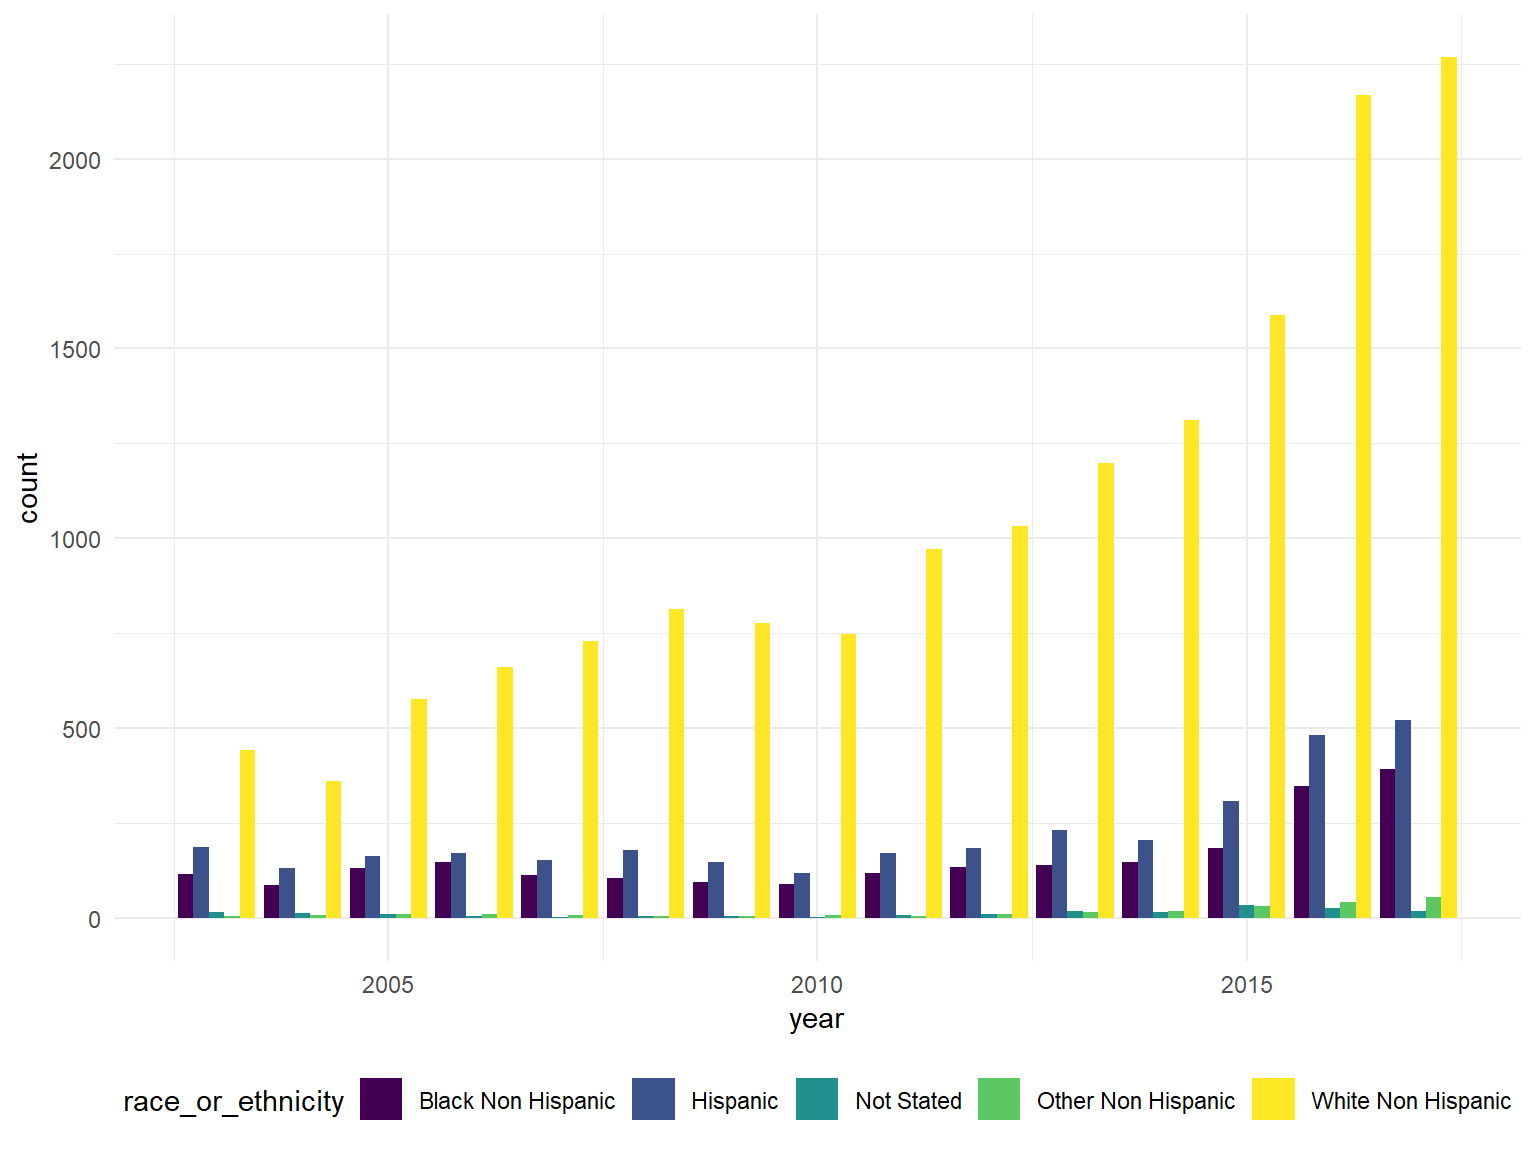
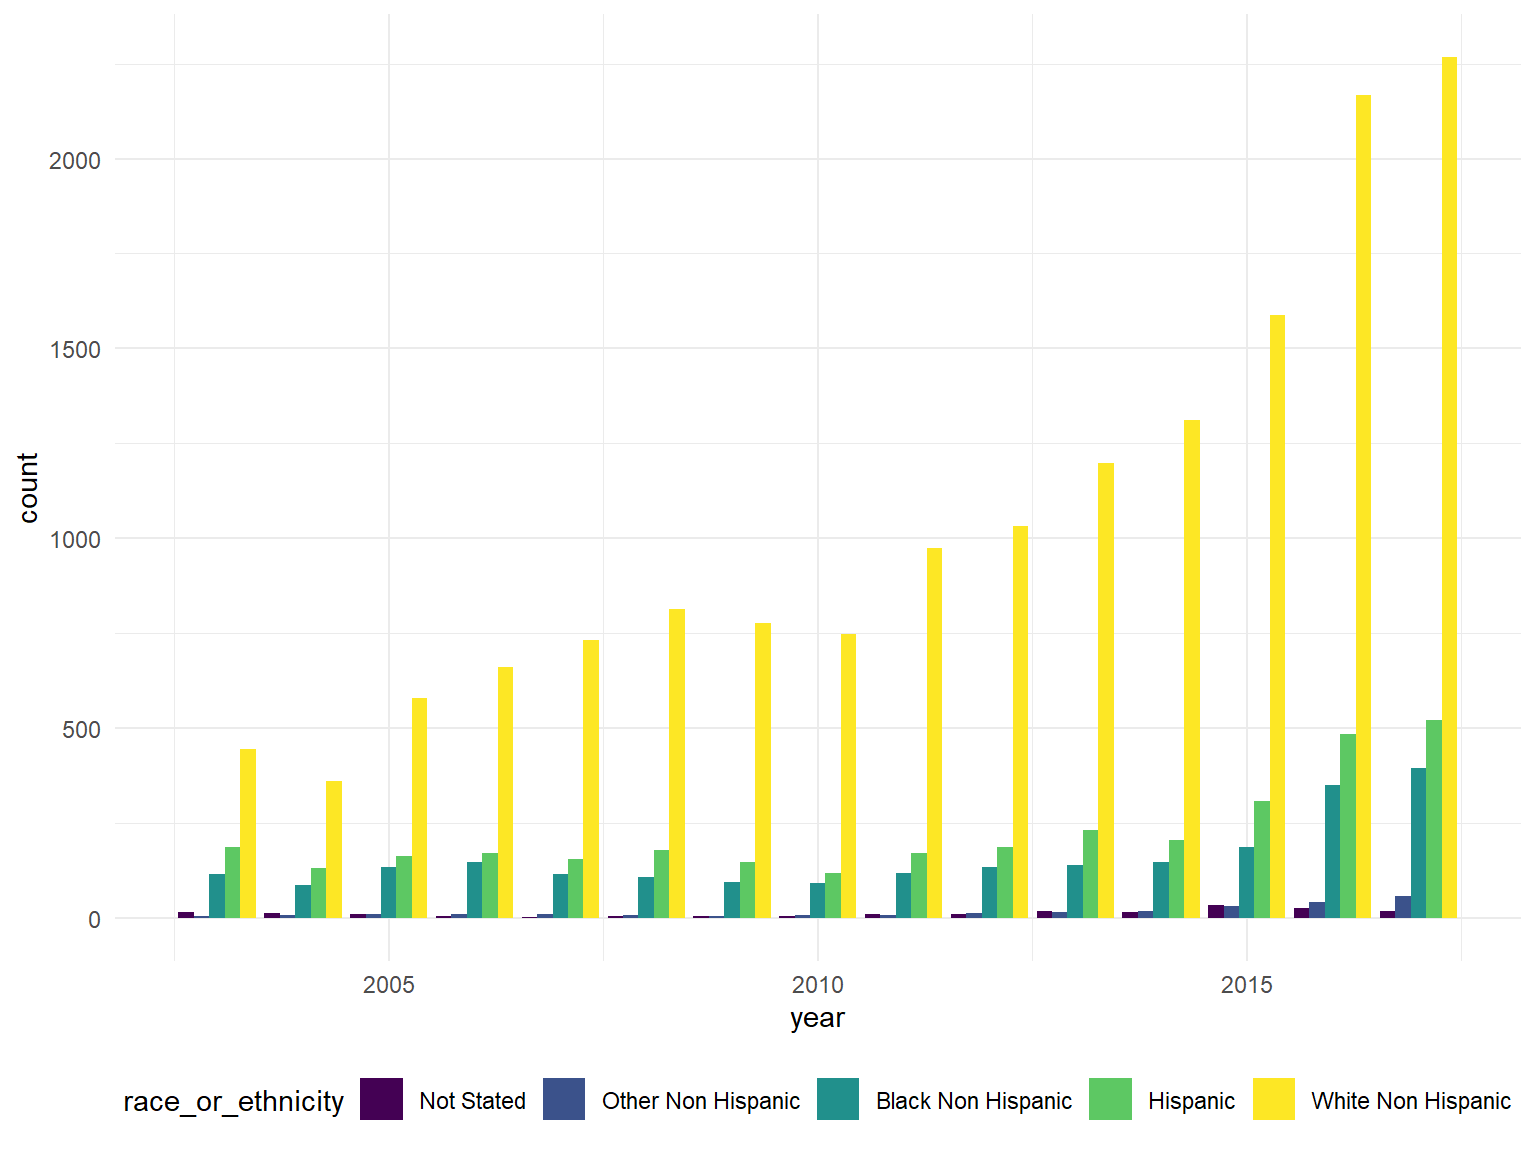
saving conflicted file

diff --git a/final_proj_jbt.html b/final_proj_jbt.html
@@ -25,6 +25,13 @@
 <script src="site_libs/navigation-1.1/tabsets.js"></script>
 <link href="site_libs/highlightjs-9.12.0/default.css" rel="stylesheet" />
 <script src="site_libs/highlightjs-9.12.0/highlight.js"></script>
+<script src="site_libs/htmlwidgets-1.3/htmlwidgets.js"></script>
+<script src="site_libs/plotly-binding-4.9.0/plotly.js"></script>
+<script src="site_libs/typedarray-0.1/typedarray.min.js"></script>
+<link href="site_libs/crosstalk-1.0.0/css/crosstalk.css" rel="stylesheet" />
+<script src="site_libs/crosstalk-1.0.0/js/crosstalk.min.js"></script>
+<link href="site_libs/plotly-htmlwidgets-css-1.46.1/plotly-htmlwidgets.css" rel="stylesheet" />
+<script src="site_libs/plotly-main-1.46.1/plotly-latest.min.js"></script>
 <link href="site_libs/font-awesome-5.1.0/css/all.css" rel="stylesheet" />
 <link href="site_libs/font-awesome-5.1.0/css/v4-shims.css" rel="stylesheet" />
 
@@ -309,178 +316,21 @@ $(document).ready(function () {
 <div id="er-visits-by-county-distance-to-treatment-facility" class="section level2">
 <h2>ER visits by county &amp; distance to treatment facility</h2>
 <p>Is there any relationship between number of ER visits and distance to treatment facility?</p>
-<pre class="r"><code>opioid_death_data = janitor::clean_names(read_csv(&#39;./opioid_related_deaths.csv&#39;))</code></pre>
-<pre><code>## Parsed with column specification:
-## cols(
-##   Year = col_double(),
-##   County = col_character(),
-##   `Opioid Poisoning Deaths` = col_double()
-## )</code></pre>
-<pre class="r"><code>county_pop = janitor::clean_names(read_excel(&quot;./data/county_pop.xlsx&quot;))
-
-opioid_treatment_distance = janitor::clean_names(read_csv(&#39;./distance_to_treatment.csv&#39;))</code></pre>
-<pre><code>## Parsed with column specification:
-## cols(
-##   STATEFP = col_character(),
-##   COUNTYFP = col_character(),
-##   YEAR = col_double(),
-##   INDICATOR = col_character(),
-##   VALUE = col_double(),
-##   STATE = col_character(),
-##   STATEABBREVIATION = col_character(),
-##   COUNTY = col_character()
-## )</code></pre>
 <p>Because distance to nearest treatment facility data is from 2017, look at opioid deaths in just 2017.</p>
-<pre class="r"><code># clean opioid death data #
-
-opioid_death = opioid_death_data %&gt;% 
-  filter(year == 2017) %&gt;% 
-  select(-year)
-
-county_pop = 
-  county_pop %&gt;% 
-  mutate(
-    county = str_replace(county, &quot; County&quot;, &quot;&quot;)
-  )
-
-opioid_treatment_dist = 
-  opioid_treatment_distance %&gt;% 
-  rename(distance = value) %&gt;% 
-  filter(state == &#39;New York&#39;) %&gt;%
-  select(county, distance)
-
-# get rid of &quot;county&quot; in opioid_treatment_distance
-
-opioid_treatment_dist = 
-  opioid_treatment_dist %&gt;% 
-  mutate(
-    county = str_replace(county, &quot; County&quot;, &quot;&quot;)
-  )
-
-treatment_death = 
-  left_join(opioid_treatment_dist, opioid_death, by = &quot;county&quot;)
-
-treatment_death_final = 
-  left_join(treatment_death, county_pop, by = &quot;county&quot;) %&gt;% 
-  select(-rank) %&gt;% 
-  mutate(
-    deaths_rate = (opioid_poisoning_deaths / population)*100
-  )</code></pre>
 <p>any relationship between rate and distance? Nope… the shorter the distance, the more deaths. Looking at rate, there is no real pattern? Kinda interesting that there’s no relationship I guess.</p>
-<pre class="r"><code>ggplot(treatment_death_final, aes(x = distance, y = opioid_poisoning_deaths))+
-  geom_point()</code></pre>
-<p><img src="final_proj_jbt_files/figure-html/unnamed-chunk-2-1.png" width="90%" /></p>
-<pre class="r"><code>ggplot(treatment_death_final, aes(x = distance, y = deaths_rate))+
-  geom_point()</code></pre>
-<p><img src="final_proj_jbt_files/figure-html/unnamed-chunk-2-2.png" width="90%" /></p>
-<pre class="r"><code>take_back = read_csv(&quot;./data/take_back.csv&quot;) %&gt;% 
-  janitor::clean_names() %&gt;% 
-  select(county) %&gt;% 
-  group_by(county) %&gt;% 
-  summarize(
-    takeback_facilities = n()
-  )</code></pre>
-<pre><code>## Parsed with column specification:
-## cols(
-##   Name = col_character(),
-##   `Address Line 1` = col_character(),
-##   `Address Line 2` = col_character(),
-##   City = col_character(),
-##   State = col_character(),
-##   `Zip Code` = col_double(),
-##   County = col_character(),
-##   `Available to Public?` = col_character(),
-##   `Location 1` = col_character()
-## )</code></pre>
 <p>compare number of pill take back locations by county</p>
-<pre class="r"><code>treatment_death_final = treatment_death_final %&gt;% 
-  left_join(take_back, treatment_death_final, by = &quot;county&quot;)
-
-treatment_death_final = treatment_death_final %&gt;% 
-  mutate(
-    takeback_facilities = replace_na(takeback_facilities, 0)
-  )
-
-ggplot(treatment_death_final, aes(x = distance, y = takeback_facilities))+
-  geom_point()</code></pre>
-<p><img src="final_proj_jbt_files/figure-html/unnamed-chunk-4-1.png" width="90%" /></p>
-<pre class="r"><code>ggplot(treatment_death_final, aes(x = takeback_facilities, y = deaths_rate))+
-  geom_point()</code></pre>
-<p><img src="final_proj_jbt_files/figure-html/unnamed-chunk-4-2.png" width="90%" /></p>
 <p><a href="https://www.health.ny.gov/statistics/opioid/data/pdf/nys_opioid_annual_report_2017.pdf" class="uri">https://www.health.ny.gov/statistics/opioid/data/pdf/nys_opioid_annual_report_2017.pdf</a></p>
 </div>
 <div id="look-at-demographic-data" class="section level2">
 <h2>Look at demographic data</h2>
-<pre class="r"><code>deaths_age_grp = read_csv(&quot;./data/deaths_age_group.csv&quot;) %&gt;% 
-  janitor::clean_names() %&gt;% 
-  pivot_wider(
-    names_from = age_group,
-    values_from = opioid_poisoning_deaths
-  ) %&gt;% 
-  janitor::clean_names()</code></pre>
-<pre><code>## Parsed with column specification:
-## cols(
-##   Year = col_double(),
-##   Region = col_character(),
-##   `Race or Ethnicity` = col_character(),
-##   Sex = col_character(),
-##   `Age Group` = col_character(),
-##   `Opioid Poisoning Deaths` = col_double()
-## )</code></pre>
 <p>Deaths by race by year:</p>
-<pre class="r"><code>deaths_by_year = deaths_age_grp %&gt;% 
-  select(year, region, race_or_ethnicity, sex, total) %&gt;% 
-  group_by(year, race_or_ethnicity) %&gt;% 
-  summarize(
-    count = sum(total)
-  )
-
-ggplot(deaths_by_year, aes(x = year, y = count, fill = race_or_ethnicity)) +
-  geom_bar(stat = &quot;identity&quot;, position=&quot;dodge&quot;)</code></pre>
-<p><img src="final_proj_jbt_files/figure-html/unnamed-chunk-6-1.png" width="90%" /></p>
+<p>Deaths by race by year:</p>
+<div id="htmlwidget-ee714514b8b0e356dcdd" style="width:90%;height:576px;" class="plotly html-widget"></div>
+<script type="application/json" data-for="htmlwidget-ee714514b8b0e356dcdd">{"x":{"visdat":{"5b346a615a5b":["function () ","plotlyVisDat"]},"cur_data":"5b346a615a5b","attrs":{"5b346a615a5b":{"x":{},"y":{},"color":{},"alpha":0.5,"alpha_stroke":1,"sizes":[10,100],"spans":[1,20],"type":"bar"}},"layout":{"margin":{"b":40,"l":60,"t":25,"r":10},"xaxis":{"domain":[0,1],"automargin":true,"title":"year"},"yaxis":{"domain":[0,1],"automargin":true,"title":"count"},"hovermode":"closest","showlegend":true},"source":"A","config":{"showSendToCloud":false},"data":[{"x":[2003,2004,2005,2006,2007,2008,2009,2010,2011,2012,2013,2014,2015,2016,2017],"y":[15,13,10,5,2,5,6,4,9,10,19,15,34,26,18],"type":"bar","name":"Not Stated","marker":{"color":"rgba(102,194,165,0.5)","line":{"color":"rgba(102,194,165,1)"}},"textfont":{"color":"rgba(102,194,165,0.5)"},"error_y":{"color":"rgba(102,194,165,0.5)"},"error_x":{"color":"rgba(102,194,165,0.5)"},"xaxis":"x","yaxis":"y","frame":null},{"x":[2003,2004,2005,2006,2007,2008,2009,2010,2011,2012,2013,2014,2015,2016,2017],"y":[5,8,10,11,9,7,5,8,7,12,15,19,32,43,57],"type":"bar","name":"Other Non Hispanic","marker":{"color":"rgba(252,141,98,0.5)","line":{"color":"rgba(252,141,98,1)"}},"textfont":{"color":"rgba(252,141,98,0.5)"},"error_y":{"color":"rgba(252,141,98,0.5)"},"error_x":{"color":"rgba(252,141,98,0.5)"},"xaxis":"x","yaxis":"y","frame":null},{"x":[2003,2004,2005,2006,2007,2008,2009,2010,2011,2012,2013,2014,2015,2016,2017],"y":[116,87,133,148,115,107,95,91,118,134,140,148,186,349,394],"type":"bar","name":"Black Non Hispanic","marker":{"color":"rgba(141,160,203,0.5)","line":{"color":"rgba(141,160,203,1)"}},"textfont":{"color":"rgba(141,160,203,0.5)"},"error_y":{"color":"rgba(141,160,203,0.5)"},"error_x":{"color":"rgba(141,160,203,0.5)"},"xaxis":"x","yaxis":"y","frame":null},{"x":[2003,2004,2005,2006,2007,2008,2009,2010,2011,2012,2013,2014,2015,2016,2017],"y":[187,131,164,171,154,179,147,118,171,186,232,205,308,483,521],"type":"bar","name":"Hispanic","marker":{"color":"rgba(231,138,195,0.5)","line":{"color":"rgba(231,138,195,1)"}},"textfont":{"color":"rgba(231,138,195,0.5)"},"error_y":{"color":"rgba(231,138,195,0.5)"},"error_x":{"color":"rgba(231,138,195,0.5)"},"xaxis":"x","yaxis":"y","frame":null},{"x":[2003,2004,2005,2006,2007,2008,2009,2010,2011,2012,2013,2014,2015,2016,2017],"y":[444,360,578,662,731,814,776,747,973,1032,1198,1312,1587,2167,2267],"type":"bar","name":"White Non Hispanic","marker":{"color":"rgba(166,216,84,0.5)","line":{"color":"rgba(166,216,84,1)"}},"textfont":{"color":"rgba(166,216,84,0.5)"},"error_y":{"color":"rgba(166,216,84,0.5)"},"error_x":{"color":"rgba(166,216,84,0.5)"},"xaxis":"x","yaxis":"y","frame":null}],"highlight":{"on":"plotly_click","persistent":false,"dynamic":false,"selectize":false,"opacityDim":0.2,"selected":{"opacity":1},"debounce":0},"shinyEvents":["plotly_hover","plotly_click","plotly_selected","plotly_relayout","plotly_brushed","plotly_brushing","plotly_clickannotation","plotly_doubleclick","plotly_deselect","plotly_afterplot"],"base_url":"https://plot.ly"},"evals":[],"jsHooks":[]}</script>
 <p>Deaths by age group by year</p>
-<pre class="r"><code># deaths_by_age = deaths_age_grp %&gt;% 
-#   select(-region, -race_or_ethnicity, -total, -sex) %&gt;% 
-#   group_by(year) %&gt;% 
-#   summarize(
-#      &quot;1_to_9&quot; = sum(x1_9, na.rm = T), 
-#      &quot;10_to_19&quot; = sum(x10_19, na.rm = T), 
-#      &quot;65_to_74&quot; = sum(x65_74, na.rm = T), 
-#      &quot;75_to_84&quot; = sum(x75_84, na.rm = T), 
-#      &quot;85+&quot; = sum(x85, na.rm = T), 
-#      &quot;&lt;1&quot; = sum(x1, na.rm = T),
-#      &quot;20_to_24&quot; = sum(x20_24, na.rm = T),
-#      &quot;25_to_34&quot; = sum(x25_34, na.rm = T), 
-#      &quot;55_to_64&quot; = sum(x55_64, na.rm = T), 
-#      &quot;35_to_44&quot; = sum(x35_44, na.rm = T),
-#      &quot;45_to_54&quot; = sum(x45_54, na.rm = T)
-#   )
-
-deaths_by_age = read_csv(&quot;./data/deaths_age_group.csv&quot;) %&gt;% 
-  janitor::clean_names() %&gt;% 
-  select(-region, -race_or_ethnicity, -sex) %&gt;% 
-  filter(age_group != &quot;Total&quot;) %&gt;% 
-  group_by(year, age_group) %&gt;% 
-  summarize(
-    count = sum(opioid_poisoning_deaths)
-  )</code></pre>
-<pre><code>## Parsed with column specification:
-## cols(
-##   Year = col_double(),
-##   Region = col_character(),
-##   `Race or Ethnicity` = col_character(),
-##   Sex = col_character(),
-##   `Age Group` = col_character(),
-##   `Opioid Poisoning Deaths` = col_double()
-## )</code></pre>
-<pre class="r"><code>ggplot(deaths_by_age, aes(x = year, y = count, fill = age_group)) +
-  geom_bar(stat = &quot;identity&quot;, position=&quot;dodge&quot;)</code></pre>
-<p><img src="final_proj_jbt_files/figure-html/unnamed-chunk-7-1.png" width="90%" /></p>
-<pre class="r"><code>ggplot(deaths_by_age, aes(x = year, y = count, color = age_group)) +
-  geom_point() +
-  geom_line()</code></pre>
-<p><img src="final_proj_jbt_files/figure-html/unnamed-chunk-7-2.png" width="90%" /></p>
-<p>Might need to adjust for population, proportion of ethnicity, etc.</p>
+<p>Count of deaths by age group from 2003 to 2017:</p>
+<div id="htmlwidget-0642acd8d6a122c75fe4" style="width:90%;height:576px;" class="plotly html-widget"></div>
+<script type="application/json" data-for="htmlwidget-0642acd8d6a122c75fe4">{"x":{"visdat":{"5b34474f3786":["function () ","plotlyVisDat"]},"cur_data":"5b34474f3786","attrs":{"5b34474f3786":{"x":{},"y":{},"mode":"lines+markers","color":{},"alpha":0.5,"alpha_stroke":1,"sizes":[10,100],"spans":[1,20],"type":"scatter"}},"layout":{"margin":{"b":40,"l":60,"t":25,"r":10},"xaxis":{"domain":[0,1],"automargin":true,"title":"year"},"yaxis":{"domain":[0,1],"automargin":true,"title":"count"},"hovermode":"closest","showlegend":true},"source":"A","config":{"showSendToCloud":false},"data":[{"x":[2003,2004,2005,2006,2007,2008,2009,2010,2011,2012,2013,2014,2015,2016,2017],"y":[0,0,1,0,0,0,0,0,0,2,1,0,1,0,0],"mode":"lines+markers","type":"scatter","name":"<1","marker":{"color":"rgba(102,194,165,0.5)","line":{"color":"rgba(102,194,165,1)"}},"textfont":{"color":"rgba(102,194,165,0.5)"},"error_y":{"color":"rgba(102,194,165,0.5)"},"error_x":{"color":"rgba(102,194,165,0.5)"},"line":{"color":"rgba(102,194,165,0.5)"},"xaxis":"x","yaxis":"y","frame":null},{"x":[2003,2004,2005,2006,2007,2008,2009,2010,2011,2012,2013,2014,2015,2016,2017],"y":[0,0,1,1,1,2,2,2,3,2,2,1,2,2,3],"mode":"lines+markers","type":"scatter","name":"1-9","marker":{"color":"rgba(219,161,118,0.5)","line":{"color":"rgba(219,161,118,1)"}},"textfont":{"color":"rgba(219,161,118,0.5)"},"error_y":{"color":"rgba(219,161,118,0.5)"},"error_x":{"color":"rgba(219,161,118,0.5)"},"line":{"color":"rgba(219,161,118,0.5)"},"xaxis":"x","yaxis":"y","frame":null},{"x":[2003,2004,2005,2006,2007,2008,2009,2010,2011,2012,2013,2014,2015,2016,2017],"y":[21,12,27,25,16,41,28,25,23,19,30,26,40,43,35],"mode":"lines+markers","type":"scatter","name":"10-19","marker":{"color":"rgba(217,150,141,0.5)","line":{"color":"rgba(217,150,141,1)"}},"textfont":{"color":"rgba(217,150,141,0.5)"},"error_y":{"color":"rgba(217,150,141,0.5)"},"error_x":{"color":"rgba(217,150,141,0.5)"},"line":{"color":"rgba(217,150,141,0.5)"},"xaxis":"x","yaxis":"y","frame":null},{"x":[2003,2004,2005,2006,2007,2008,2009,2010,2011,2012,2013,2014,2015,2016,2017],"y":[34,39,70,66,67,73,82,87,137,131,160,164,204,282,232],"mode":"lines+markers","type":"scatter","name":"20-24","marker":{"color":"rgba(152,158,202,0.5)","line":{"color":"rgba(152,158,202,1)"}},"textfont":{"color":"rgba(152,158,202,0.5)"},"error_y":{"color":"rgba(152,158,202,0.5)"},"error_x":{"color":"rgba(152,158,202,0.5)"},"line":{"color":"rgba(152,158,202,0.5)"},"xaxis":"x","yaxis":"y","frame":null},{"x":[2003,2004,2005,2006,2007,2008,2009,2010,2011,2012,2013,2014,2015,2016,2017],"y":[133,80,145,163,207,189,193,175,303,328,379,432,588,873,924],"mode":"lines+markers","type":"scatter","name":"25-34","marker":{"color":"rgba(215,144,197,0.5)","line":{"color":"rgba(215,144,197,1)"}},"textfont":{"color":"rgba(215,144,197,0.5)"},"error_y":{"color":"rgba(215,144,197,0.5)"},"error_x":{"color":"rgba(215,144,197,0.5)"},"line":{"color":"rgba(215,144,197,0.5)"},"xaxis":"x","yaxis":"y","frame":null},{"x":[2003,2004,2005,2006,2007,2008,2009,2010,2011,2012,2013,2014,2015,2016,2017],"y":[248,210,252,290,254,255,244,218,255,277,299,348,439,646,712],"mode":"lines+markers","type":"scatter","name":"35-44","marker":{"color":"rgba(205,181,144,0.5)","line":{"color":"rgba(205,181,144,1)"}},"textfont":{"color":"rgba(205,181,144,0.5)"},"error_y":{"color":"rgba(205,181,144,0.5)"},"error_x":{"color":"rgba(205,181,144,0.5)"},"line":{"color":"rgba(205,181,144,0.5)"},"xaxis":"x","yaxis":"y","frame":null},{"x":[2003,2004,2005,2006,2007,2008,2009,2010,2011,2012,2013,2014,2015,2016,2017],"y":[264,194,292,332,321,377,325,303,367,370,409,420,508,674,741],"mode":"lines+markers","type":"scatter","name":"45-54","marker":{"color":"rgba(186,217,78,0.5)","line":{"color":"rgba(186,217,78,1)"}},"textfont":{"color":"rgba(186,217,78,0.5)"},"error_y":{"color":"rgba(186,217,78,0.5)"},"error_x":{"color":"rgba(186,217,78,0.5)"},"line":{"color":"rgba(186,217,78,0.5)"},"xaxis":"x","yaxis":"y","frame":null},{"x":[2003,2004,2005,2006,2007,2008,2009,2010,2011,2012,2013,2014,2015,2016,2017],"y":[52,52,85,93,125,147,135,133,168,207,263,254,298,440,489],"mode":"lines+markers","type":"scatter","name":"55-64","marker":{"color":"rgba(247,217,52,0.5)","line":{"color":"rgba(247,217,52,1)"}},"textfont":{"color":"rgba(247,217,52,0.5)"},"error_y":{"color":"rgba(247,217,52,0.5)"},"error_x":{"color":"rgba(247,217,52,0.5)"},"line":{"color":"rgba(247,217,52,0.5)"},"xaxis":"x","yaxis":"y","frame":null},{"x":[2003,2004,2005,2006,2007,2008,2009,2010,2011,2012,2013,2014,2015,2016,2017],"y":[10,7,15,16,9,21,15,19,17,27,48,43,57,87,108],"mode":"lines+markers","type":"scatter","name":"65-74","marker":{"color":"rgba(241,204,114,0.5)","line":{"color":"rgba(241,204,114,1)"}},"textfont":{"color":"rgba(241,204,114,0.5)"},"error_y":{"color":"rgba(241,204,114,0.5)"},"error_x":{"color":"rgba(241,204,114,0.5)"},"line":{"color":"rgba(241,204,114,0.5)"},"xaxis":"x","yaxis":"y","frame":null},{"x":[2003,2004,2005,2006,2007,2008,2009,2010,2011,2012,2013,2014,2015,2016,2017],"y":[4,4,4,8,5,5,4,5,3,6,11,6,8,17,10],"mode":"lines+markers","type":"scatter","name":"75-84","marker":{"color":"rgba(215,191,158,0.5)","line":{"color":"rgba(215,191,158,1)"}},"textfont":{"color":"rgba(215,191,158,0.5)"},"error_y":{"color":"rgba(215,191,158,0.5)"},"error_x":{"color":"rgba(215,191,158,0.5)"},"line":{"color":"rgba(215,191,158,0.5)"},"xaxis":"x","yaxis":"y","frame":null},{"x":[2003,2004,2005,2006,2007,2008,2009,2010,2011,2012,2013,2014,2015,2016,2017],"y":[1,1,3,3,6,2,1,1,2,5,2,5,2,4,3],"mode":"lines+markers","type":"scatter","name":"85+","marker":{"color":"rgba(179,179,179,0.5)","line":{"color":"rgba(179,179,179,1)"}},"textfont":{"color":"rgba(179,179,179,0.5)"},"error_y":{"color":"rgba(179,179,179,0.5)"},"error_x":{"color":"rgba(179,179,179,0.5)"},"line":{"color":"rgba(179,179,179,0.5)"},"xaxis":"x","yaxis":"y","frame":null}],"highlight":{"on":"plotly_click","persistent":false,"dynamic":false,"selectize":false,"opacityDim":0.2,"selected":{"opacity":1},"debounce":0},"shinyEvents":["plotly_hover","plotly_click","plotly_selected","plotly_relayout","plotly_brushed","plotly_brushing","plotly_clickannotation","plotly_doubleclick","plotly_deselect","plotly_afterplot"],"base_url":"https://plot.ly"},"evals":[],"jsHooks":[]}</script>
 </div>
 
 
